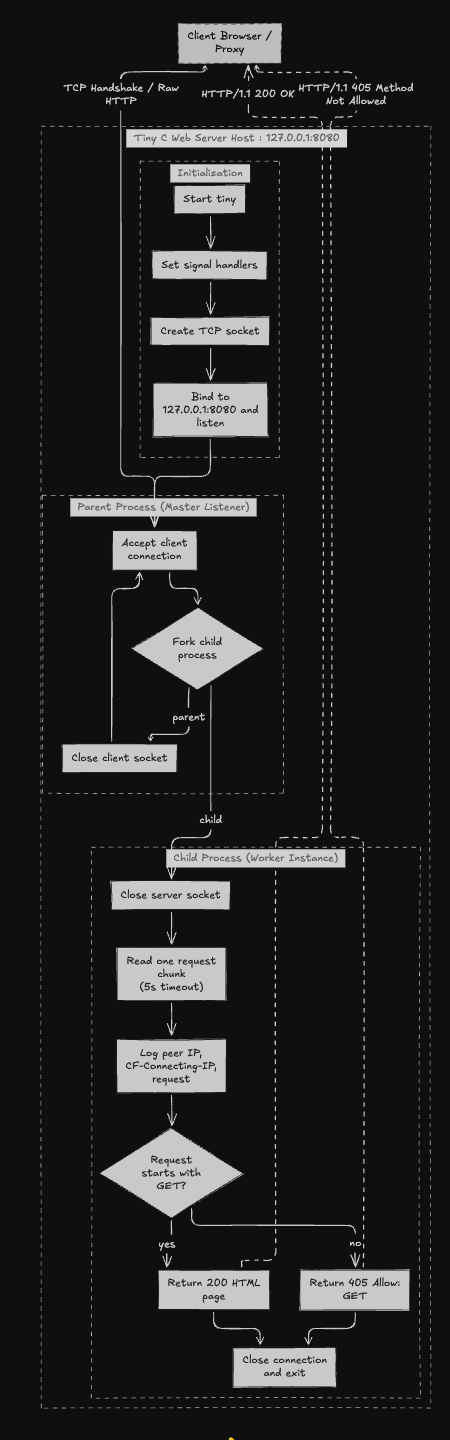
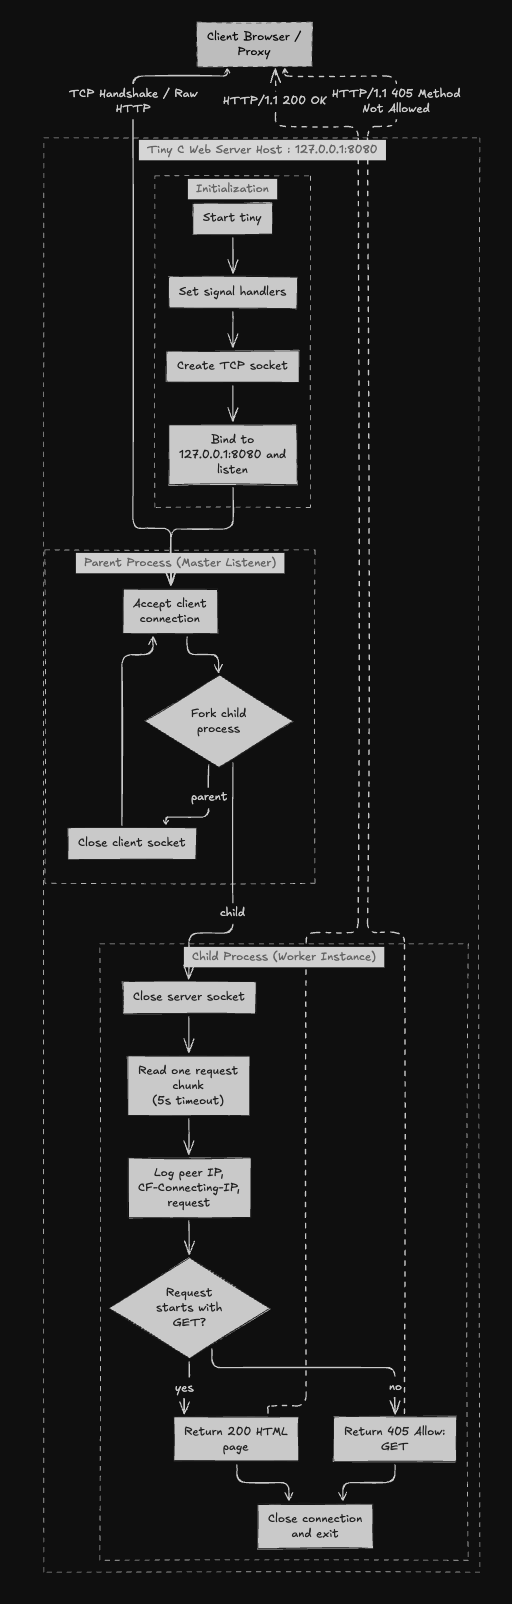
reame polish

diff --git a/README.md b/README.md
@@ -20,11 +20,18 @@
 
 <table>
 <tr>
-<td width="56%" valign="middle">
+<td width="42%" valign="middle" align="center">
+<img src="assets/tiny-server-flow.png" width="100%" alt="Tiny C server flowchart showing startup, parent listener, worker request handling, and 200 or 405 responses" />
+</td>
+<td width="58%" valign="middle">
 
-<h2><samp>› what it does</samp></h2>
+<h2><samp>› a tiny server, end to end</samp></h2>
 
-<p>Tiny binds to <code>127.0.0.1:8080</code> and serves a small HTML page for <code>GET</code> requests. Other methods receive <code>405 Method Not Allowed</code>. It forks a worker for each connection, applies a five-second request timeout, and writes sanitized request details to stderr.</p>
+<p>Tiny is a small C web server for learning how an HTTP request moves through a server. It binds only to <code>127.0.0.1:8080</code>, accepts a connection, and forks a short-lived worker to handle it.</p>
+
+<p>The worker reads one request chunk with a five-second timeout and logs a sanitized request line. A <code>GET</code> receives the static HTML page; other methods receive <code>405 Method Not Allowed</code>. Each connection closes after the response.</p>
+
+<hr />
 
 <h2><samp>› run it</samp></h2>
 
@@ -33,47 +40,50 @@
 <pre><code>make
 ./tiny</code></pre>
 
-<p>Then open <a href="http://127.0.0.1:8080">127.0.0.1:8080</a>, or check it with curl:</p>
+<p>Open <a href="http://127.0.0.1:8080">127.0.0.1:8080</a>, or check both response paths:</p>
 
 <pre><code>curl -i http://127.0.0.1:8080/
 curl -i -X POST http://127.0.0.1:8080/</code></pre>
 
-</td>
-<td width="44%" align="center" valign="top">
-<img src="assets/tiny-server-flow.png" width="340" alt="Vertical flowchart showing the Tiny C web server startup, parent listener, forked child request handling, and 200 or 405 responses" />
+<p>Stop the server with <code>Ctrl+C</code>.</p>
+
+<hr />
+
+<h2><samp>› build options</samp></h2>
+
+<p>The Makefile enables compiler warnings, stack protection, and position-independent code. Linux builds also enable RELRO linker hardening. macOS skips Linux-specific linker flags.</p>
+
+<p>Optional sanitizer build:</p>
+
+<pre><code>cc -g -O1 -Wall -Wextra \
+  -fsanitize=address,undefined \
+  -fno-omit-frame-pointer \
+  -o tiny-asan tiny.c
+./tiny-asan</code></pre>
+
+<hr />
+
+<h2><samp>› Fedora systemd</samp></h2>
+
+<p>The included <code>tiny.service</code> runs as a dynamic unprivileged user in a systemd sandbox. After building on Fedora:</p>
+
+<pre><code>sudo install -m 0755 tiny /usr/local/bin/tiny
+sudo install -m 0644 tiny.service /etc/systemd/system/tiny.service
+sudo systemctl daemon-reload
+sudo systemctl enable --now tiny
+systemctl status tiny</code></pre>
+
+<hr />
+
+<h2><samp>› network boundary</samp></h2>
+
+<p>The server does not serve files or bind to your LAN address. For public access, use a Cloudflare Tunnel and keep port <code>8080</code> closed at the router.</p>
 </td>
 </tr>
 </table>
 
-## <samp>› request flow</samp>
-
-The diagram shows the lifecycle of a request: the parent accepts a client, forks a worker, and closes its copy of the client socket. The worker reads one request chunk, logs it, returns a response, then exits. The server handles one request per connection and ignores the requested URL path.
-
-## <samp>› build options</samp>
-
-The Makefile enables compiler warnings, stack protection, and position-independent code. On Linux it also enables RELRO linker hardening. On macOS it skips Linux-specific linker flags so the project can be built locally.
-
-```sh
-# Optional sanitizer build
-cc -g -O1 -Wall -Wextra -fsanitize=address,undefined \
-  -fno-omit-frame-pointer -o tiny-asan tiny.c
-./tiny-asan
-```
-
-## <samp>› Fedora systemd</samp>
-
-The included [`tiny.service`](tiny.service) runs the server as a dynamic unprivileged user with a systemd sandbox. On Fedora, after building:
-
-```sh
-sudo install -m 0755 tiny /usr/local/bin/tiny
-sudo install -m 0644 tiny.service /etc/systemd/system/tiny.service
-sudo systemctl daemon-reload
-sudo systemctl enable --now tiny
-systemctl status tiny
-```
-
 ## <samp>› limits and deployment</samp>
 
-This is a learning project, not a general-purpose HTTP server. It supports IPv4 and `GET`, reads only one request chunk, ignores paths, closes each connection, and forks per connection. It should stay on loopback. For public access, use a Cloudflare Tunnel as described in the local plan; do not forward port 8080 from your router. The server trusts `CF-Connecting-IP` only for logging, so use that value only when the tunnel is the sole route to the server.
+This is a learning project, not a general-purpose HTTP server. It supports IPv4 and `GET`, reads only one request chunk, ignores paths, closes each connection, and forks per connection. It should stay on loopback. The server trusts `CF-Connecting-IP` only for logging, so use that value only when the tunnel is the sole route to the server.
 
 <p align="center"><samp>C · POSIX sockets · HTTP · systemd</samp></p>
